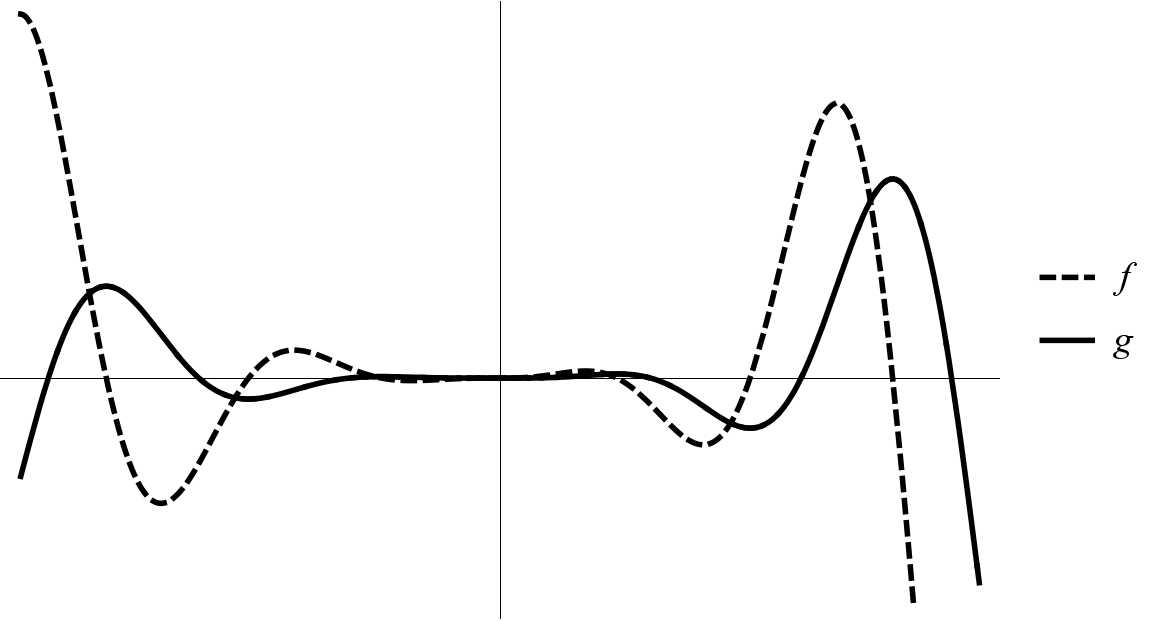
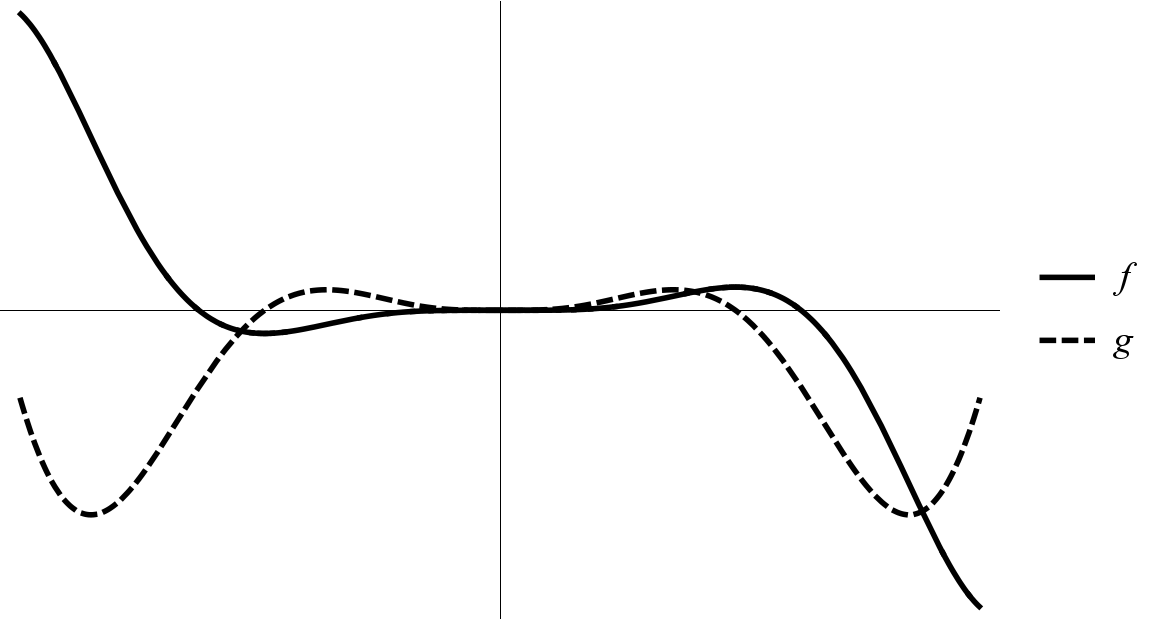
swapped dashed with f and g

diff --git a/plotOfFxnAndDeriv/plotOfFxnAndDeriv1.tex b/plotOfFxnAndDeriv/plotOfFxnAndDeriv1.tex
@@ -12,8 +12,8 @@ Here we see a plot of $f$ and $g$.
 \end{image}
 Which of the following is correct?
 \begin{multipleChoice}
-\choice{$f'(x) = g(x)$}
-\choice[correct]{$g'(x) = f(x)$}
+\choice[correct]{$f'(x) = g(x)$}
+\choice{$g'(x) = f(x)$}
 \end{multipleChoice}
 \end{exercise}
 \end{document}

diff --git a/plotOfFxnAndDeriv/plotOfFxnAndDeriv11.tex b/plotOfFxnAndDeriv/plotOfFxnAndDeriv11.tex
@@ -12,8 +12,8 @@ Here we see a plot of $f$ and $g$.
 \end{image}
 Which of the following is correct?
 \begin{multipleChoice}
-\choice{$f'(x) = g(x)$}
-\choice[correct]{$g'(x) = f(x)$}
+\choice[correct]{$f'(x) = g(x)$}
+\choice{$g'(x) = f(x)$}
 \end{multipleChoice}
 \end{exercise}
 \end{document}

diff --git a/plotOfFxnAndDeriv/plotOfFxnAndDeriv12.tex b/plotOfFxnAndDeriv/plotOfFxnAndDeriv12.tex
@@ -12,8 +12,8 @@ Here we see a plot of $f$ and $g$.
 \end{image}
 Which of the following is correct?
 \begin{multipleChoice}
-\choice{$f'(x) = g(x)$}
-\choice[correct]{$g'(x) = f(x)$}
+\choice[correct]{$f'(x) = g(x)$}
+\choice{$g'(x) = f(x)$}
 \end{multipleChoice}
 \end{exercise}
 \end{document}

diff --git a/plotOfFxnAndDeriv/plotOfFxnAndDeriv8.tex b/plotOfFxnAndDeriv/plotOfFxnAndDeriv8.tex
@@ -12,8 +12,8 @@ Here we see a plot of $f$ and $g$.
 \end{image}
 Which of the following is correct?
 \begin{multipleChoice}
-\choice{$f'(x) = g(x)$}
-\choice[correct]{$g'(x) = f(x)$}
+\choice[correct]{$f'(x) = g(x)$}
+\choice{$g'(x) = f(x)$}
 \end{multipleChoice}
 \end{exercise}
 \end{document}
